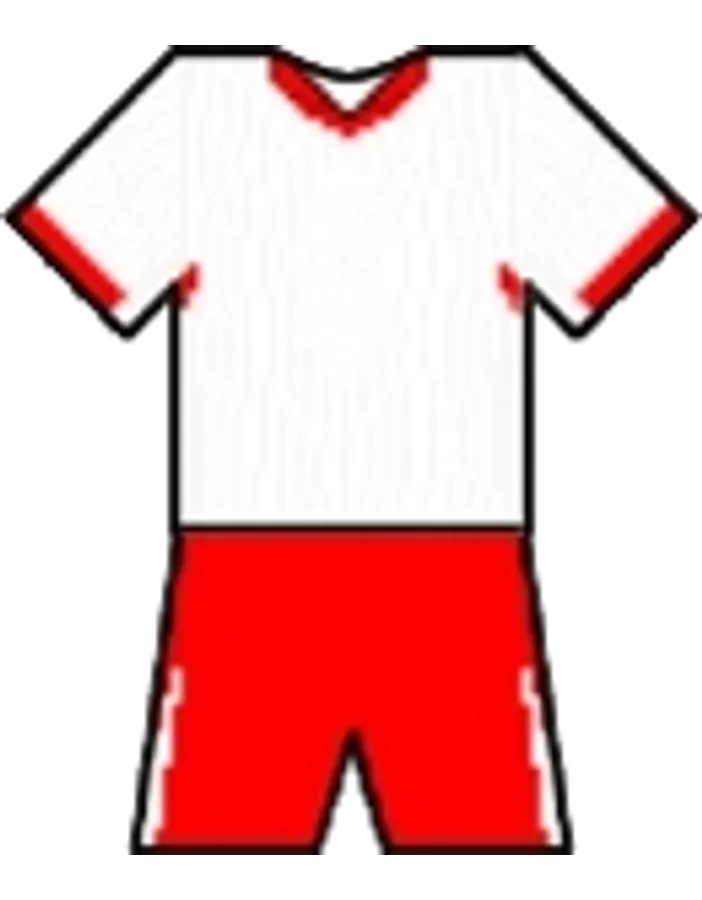
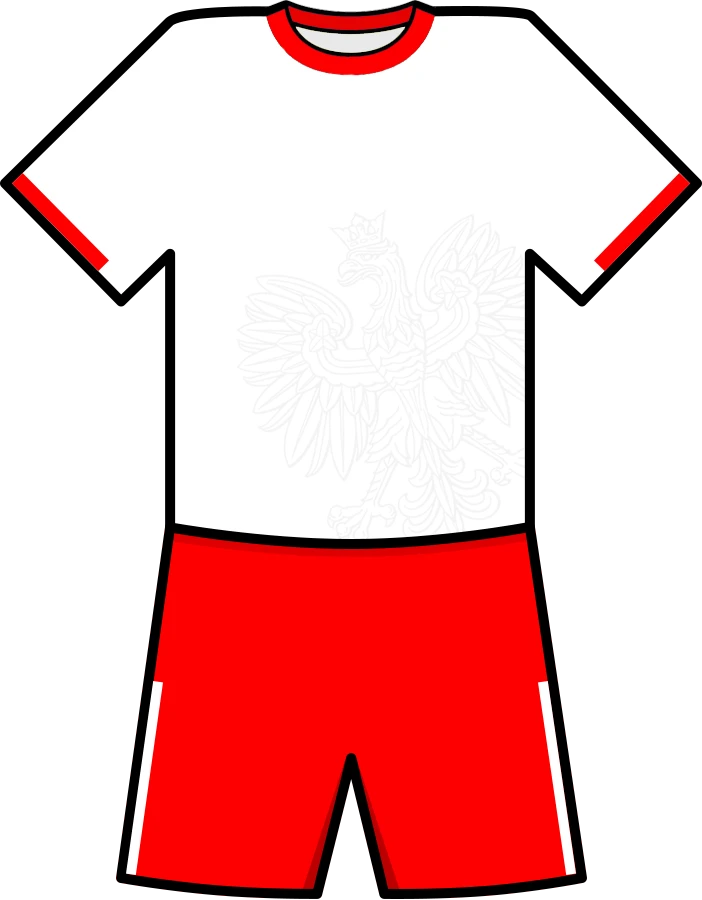
New menu background

Changed region(s): [[0.0, 0.0, 1.0, 1.0]]

diff --git a/src/tests/project.test.ts b/src/tests/project.test.ts
@@ -34,12 +34,15 @@ describe('project scaffold', () => {
     expect(existsSync(join(process.cwd(), 'public', 'menu', 'README.md'))).toBe(true);
     expect(existsSync(join(process.cwd(), 'public', 'menu', 'menu-logo1.png'))).toBe(true);
     expect(existsSync(join(process.cwd(), 'public', 'menu', 'menu-logo2.png'))).toBe(true);
+    expect(existsSync(join(process.cwd(), 'public', 'menu', 'menu-2-bg.webp'))).toBe(true);
     expect(MENU_ASSETS.logoOn).toBe('menu-logo-on');
     expect(MENU_ASSETS.logoOff).toBe('menu-logo-off');
+    expect(MENU_ASSETS.teamSelectBackground).toBe('team-select-bg');
     expect(MENU_ASSETS.resultDrawBackground).toBe('result-draw-bg');
     expect(MENU_ASSETS.resultWinBackground).toBe('result-win-bg');
     expect(MENU_ASSET_PATHS.logoOn).toBe('menu/menu-logo1.png');
     expect(MENU_ASSET_PATHS.logoOff).toBe('menu/menu-logo2.png');
+    expect(MENU_ASSET_PATHS.teamSelectBackground).toBe('menu/menu-2-bg.webp');
     expect(MENU_ASSET_PATHS.resultDrawBackground).toBe('menu/remis-bg.webp');
     expect(MENU_ASSET_PATHS.resultWinBackground).toBe('menu/gamestat-bg.webp');
     expect(menuSceneSource).toContain('createBackground');
@@ -50,6 +53,7 @@ describe('project scaffold', () => {
     expect(menuSceneSource).toContain('createFooter');
     expect(menuSceneSource).toContain('MENU_LAYOUT');
     expect(bootSceneSource).toContain('MENU_ASSETS.background');
+    expect(bootSceneSource).toContain('MENU_ASSETS.teamSelectBackground');
     expect(bootSceneSource).toContain('MENU_ASSETS.logoOn');
     expect(bootSceneSource).toContain('MENU_ASSETS.logoOff');
     expect(configSource).not.toContain('menu-logo.png');
@@ -110,10 +114,12 @@ describe('project scaffold', () => {
     expect(menuSceneSource).toContain('`${GAME_TITLE} | v${GAME_VERSION}`');
     expect(menuSceneSource).toContain('This is an unofficial football card game.');
     expect(menuSceneSource).toContain('RULES_CONTENT');
-    expect(menuSceneSource).toContain("import { SCORE_VIEW_BACKGROUND_COLOR } from '../ui/ScoreView'");
+    expect(menuSceneSource).toContain('const ABOUT_MODAL_BACKGROUND_COLOR = 0x000000');
+    expect(menuSceneSource).toContain('const ABOUT_MODAL_BACKGROUND_ALPHA = 0.82');
     expect(menuSceneSource).toContain(
-      'this.add.rectangle(0, 0, ABOUT_MODAL.width, ABOUT_MODAL.height, SCORE_VIEW_BACKGROUND_COLOR, 0.98)'
+      'ABOUT_MODAL.width,\n      ABOUT_MODAL.height,\n      ABOUT_MODAL_BACKGROUND_COLOR,\n      ABOUT_MODAL_BACKGROUND_ALPHA'
     );
+    expect(menuSceneSource).not.toContain('background.setStrokeStyle(2, 0x9dd2a7)');
     expect(menuSceneSource).toContain('openRulesModal');
     expect(menuSceneSource).toContain("return 'EN'");
     expect(menuSceneSource).toContain("return 'PL'");

diff --git a/src/scenes/GameScene.ts b/src/scenes/GameScene.ts
@@ -32,7 +32,7 @@ import { createCardPlayerProfile, createGoalkeeperCardProfile, type CardPlayerPr
 import { CardView } from '../ui/CardView';
 import { DeckView } from '../ui/DeckView';
 import { FieldView, getFieldCardPosition } from '../ui/FieldView';
-import { SCORE_VIEW_BACKGROUND_COLOR, SCORE_VIEW_HEIGHT, SCORE_VIEW_WIDTH, ScoreView } from '../ui/ScoreView';
+import { SCORE_VIEW_HEIGHT, SCORE_VIEW_WIDTH, ScoreView } from '../ui/ScoreView';
 import { TEAM_STATS_VIEW_HEIGHT, TeamStatsView } from '../ui/TeamStatsView';
 import { ABOUT_CONTENT, ABOUT_LANGUAGES, RULES_CONTENT, type AboutLanguage, type InfoModalKind } from './MenuScene';
 import type { TeamSelectionData } from './TeamSelectScene';
@@ -67,6 +67,8 @@ const INFO_MODAL = {
   width: 960,
   height: 600
 } as const;
+const INFO_MODAL_BACKGROUND_COLOR = 0x000000;
+const INFO_MODAL_BACKGROUND_ALPHA = 0.82;
 const INFO_VIEWPORT = {
   x: -390,
   y: -150,
@@ -576,8 +578,14 @@ export class GameScene extends Phaser.Scene {
     overlay.setInteractive();
 
     const panel = this.add.container(centerX, centerY);
-    const background = this.add.rectangle(0, 0, INFO_MODAL.width, INFO_MODAL.height, SCORE_VIEW_BACKGROUND_COLOR, 0.98);
-    background.setStrokeStyle(2, 0x9dd2a7);
+    const background = this.add.rectangle(
+      0,
+      0,
+      INFO_MODAL.width,
+      INFO_MODAL.height,
+      INFO_MODAL_BACKGROUND_COLOR,
+      INFO_MODAL_BACKGROUND_ALPHA
+    );
 
     const backButton = this.createMatchInfoBackButton();
     const languageSelector = this.createMatchInfoLanguageSelector(336, -258);

diff --git a/src/scenes/MenuScene.ts b/src/scenes/MenuScene.ts
@@ -2,7 +2,6 @@ import Phaser from 'phaser';
 import { GAME_AUTHOR, GAME_AUTHOR_URL, GAME_TITLE, GAME_VERSION, MENU_ASSETS, SCENE_HEIGHT, SCENE_WIDTH } from '../config';
 import { deleteStoredTournament, hasActiveTournamentSave, loadActiveTournament } from '../tournament';
 import { Button } from '../ui/Button';
-import { SCORE_VIEW_BACKGROUND_COLOR } from '../ui/ScoreView';
 
 const MENU_LAYOUT = {
   centerX: SCENE_WIDTH / 2,
@@ -28,6 +27,8 @@ const ABOUT_MODAL = {
   width: 960,
   height: 600
 } as const;
+const ABOUT_MODAL_BACKGROUND_COLOR = 0x000000;
+const ABOUT_MODAL_BACKGROUND_ALPHA = 0.82;
 
 const ABOUT_VIEWPORT = {
   x: -390,
@@ -750,8 +751,14 @@ export class MenuScene extends Phaser.Scene {
     overlay.setInteractive();
 
     const panel = this.add.container(MENU_LAYOUT.centerX, MENU_LAYOUT.centerY);
-    const background = this.add.rectangle(0, 0, ABOUT_MODAL.width, ABOUT_MODAL.height, SCORE_VIEW_BACKGROUND_COLOR, 0.98);
-    background.setStrokeStyle(2, 0x9dd2a7);
+    const background = this.add.rectangle(
+      0,
+      0,
+      ABOUT_MODAL.width,
+      ABOUT_MODAL.height,
+      ABOUT_MODAL_BACKGROUND_COLOR,
+      ABOUT_MODAL_BACKGROUND_ALPHA
+    );
 
     const backButton = this.createInfoBackButton();
     const languageSelector = this.createAboutLanguageSelector(336, -258);

diff --git a/src/tests/gameScene.test.ts b/src/tests/gameScene.test.ts
@@ -148,13 +148,16 @@ describe('GameScene visual layout contracts', () => {
     expect(scoreSource).not.toContain('scene.add.rectangle(0, 0, 620, 78');
   });
 
-  it('uses the scoreboard background color for in-game info panels', () => {
+  it('uses a transparent black background without borders for in-game info panels', () => {
     const source = readSource('src/scenes/GameScene.ts');
 
-    expect(source).toContain("import { SCORE_VIEW_BACKGROUND_COLOR, SCORE_VIEW_HEIGHT, SCORE_VIEW_WIDTH, ScoreView } from '../ui/ScoreView'");
+    expect(source).toContain("import { SCORE_VIEW_HEIGHT, SCORE_VIEW_WIDTH, ScoreView } from '../ui/ScoreView'");
+    expect(source).toContain('const INFO_MODAL_BACKGROUND_COLOR = 0x000000');
+    expect(source).toContain('const INFO_MODAL_BACKGROUND_ALPHA = 0.82');
     expect(source).toContain(
-      'this.add.rectangle(0, 0, INFO_MODAL.width, INFO_MODAL.height, SCORE_VIEW_BACKGROUND_COLOR, 0.98)'
+      'INFO_MODAL.width,\n      INFO_MODAL.height,\n      INFO_MODAL_BACKGROUND_COLOR,\n      INFO_MODAL_BACKGROUND_ALPHA'
     );
+    expect(source).not.toContain('background.setStrokeStyle(2, 0x9dd2a7)');
     expect(source).toContain('const overlay = this.add.rectangle(centerX, centerY, SCENE_WIDTH, SCENE_HEIGHT, 0x06140f, 0.72)');
   });
 });

diff --git a/src/tests/teamSelect.test.ts b/src/tests/teamSelect.test.ts
@@ -118,12 +118,16 @@ describe('quick match team selection AI controls', () => {
     expect(source).toContain('FALLBACK_TEAM_KIT_ASSET.assetKey');
   });
 
-  it('draws a football field background without global scale or input changes', () => {
+  it('uses the team selection menu background with a football field fallback', () => {
     const source = readTeamSelectSource();
     const backgroundSource = readFileSync(join(process.cwd(), 'src', 'ui', 'teamFieldBackground.ts'), 'utf8');
 
+    expect(source).toContain("import { MENU_ASSETS, SCENE_HEIGHT, SCENE_WIDTH } from '../config'");
     expect(source).toContain("import { createTeamFieldBackground } from '../ui/teamFieldBackground'");
     expect(source).toContain('private createTeamSelectFieldBackground');
+    expect(source).toContain('this.textures.exists(MENU_ASSETS.teamSelectBackground)');
+    expect(source).toContain('this.add.image(SCENE_WIDTH / 2, SCENE_HEIGHT / 2, MENU_ASSETS.teamSelectBackground)');
+    expect(source).toContain('background.setDisplaySize(SCENE_WIDTH, SCENE_HEIGHT)');
     expect(source).toContain('createTeamFieldBackground(this)');
     expect(backgroundSource).toContain('const stripeCount = 14');
     expect(backgroundSource).toContain('graphics.lineBetween(SCENE_WIDTH / 2');

diff --git a/src/scenes/TeamSelectScene.ts b/src/scenes/TeamSelectScene.ts
@@ -1,7 +1,7 @@
 import Phaser from 'phaser';
 import { resolveTeamCoverLoadResult } from '../assets/teamCover';
 import type { PlayerControllerType } from '../ai';
-import { SCENE_HEIGHT, SCENE_WIDTH } from '../config';
+import { MENU_ASSETS, SCENE_HEIGHT, SCENE_WIDTH } from '../config';
 import { FALLBACK_TEAM_KIT_ASSET, getTeamKitAssetKey } from '../data/teamKits';
 import { getFlagAssetKey, NATIONAL_TEAMS, type NationalTeam } from '../data/nationalTeams';
 import type { TournamentMatchResult } from '../tournament';
@@ -491,6 +491,13 @@ export class TeamSelectScene extends Phaser.Scene {
   }
 
   private createTeamSelectFieldBackground(): void {
+    if (this.textures.exists(MENU_ASSETS.teamSelectBackground)) {
+      const background = this.add.image(SCENE_WIDTH / 2, SCENE_HEIGHT / 2, MENU_ASSETS.teamSelectBackground);
+      background.setDisplaySize(SCENE_WIDTH, SCENE_HEIGHT);
+      background.setDepth(-20);
+      return;
+    }
+
     createTeamFieldBackground(this);
   }
 

diff --git a/src/config.ts b/src/config.ts
@@ -7,6 +7,7 @@ export const SCENE_HEIGHT = 720;
 
 export const MENU_ASSETS = {
   background: 'menu-bg',
+  teamSelectBackground: 'team-select-bg',
   resultDrawBackground: 'result-draw-bg',
   resultWinBackground: 'result-win-bg',
   logoOn: 'menu-logo-on',
@@ -16,6 +17,7 @@ export const MENU_ASSETS = {
 
 export const MENU_ASSET_PATHS = {
   background: 'menu/menu-bg.webp',
+  teamSelectBackground: 'menu/menu-2-bg.webp',
   resultDrawBackground: 'menu/remis-bg.webp',
   resultWinBackground: 'menu/gamestat-bg.webp',
   logoOn: 'menu/menu-logo1.png',

diff --git a/src/tests/bootScene.test.ts b/src/tests/bootScene.test.ts
@@ -115,8 +115,10 @@ describe('BootScene kit asset loading', () => {
 
     expect(source).toContain('logoOn');
     expect(source).toContain('logoOff');
+    expect(source).toContain('teamSelectBackground');
     expect(source).toContain('resultDrawBackground');
     expect(source).toContain('resultWinBackground');
+    expect(source).toContain('menu/menu-2-bg.webp');
     expect(source).toContain('menu/remis-bg.webp');
     expect(source).toContain('menu/gamestat-bg.webp');
     expect(source).toContain('menu/menu-logo1.png');

diff --git a/src/scenes/BootScene.ts b/src/scenes/BootScene.ts
@@ -29,6 +29,7 @@ export class BootScene extends Phaser.Scene {
 
   public preload(): void {
     this.load.image(MENU_ASSETS.background, MENU_ASSET_PATHS.background);
+    this.load.image(MENU_ASSETS.teamSelectBackground, MENU_ASSET_PATHS.teamSelectBackground);
     this.load.image(MENU_ASSETS.resultDrawBackground, MENU_ASSET_PATHS.resultDrawBackground);
     this.load.image(MENU_ASSETS.resultWinBackground, MENU_ASSET_PATHS.resultWinBackground);
     this.load.image(MENU_ASSETS.logoOn, MENU_ASSET_PATHS.logoOn);

diff --git a/PROJECT_SPEC_FOR_CHATGPT.md b/PROJECT_SPEC_FOR_CHATGPT.md
@@ -68,7 +68,7 @@ src/scenes/
 - `TeamSelectScene.ts` - выбор сборных для быстрого матча или standalone-пенальти. В быстром матче и standalone-пенальти у каждой выбранной команды есть AI-checkbox; по умолчанию команды HUMAN. Все 65 команд отображаются на одной странице компактной сеткой с 8 колонками без пагинации.
 - Team selection layout uses `createTeamScreenLayout()` from `src/ui/teamScreenLayout.ts`: selected Team 1 card and Menu button align to `teamGridRect.x`, selected Team 2 card and Start/Start penalties align to the right edge of `teamGridRect`, and `VS` remains centered between selected cards.
 - Team selection selected cards show a 3-card face-down cover fan from `resolveTeamCoverLoadResult()` instead of the team flag. Between each selected card and `VS`, the screen shows a small kit preview using `getTeamKitAssetKey()` with `kit-none` fallback.
-- Team selection background is drawn with Phaser Graphics as a muted striped football field with field markings; no main.ts, index.html, global CSS scale/input, GameEngine, AI, Penalty AI, TournamentEngine, or asset registration changes are part of this screen layout contract.
+- Team selection background uses the preloaded `public/menu/menu-2-bg.webp` asset, stretched to the scene size, with the muted striped Phaser Graphics football field kept only as a missing-texture fallback. No main.ts, index.html, global CSS scale/input, GameEngine, AI, Penalty AI, or TournamentEngine changes are part of this screen layout contract.
 - `SquadSelectScene.ts` и `SquadEditorScene.ts` - просмотр состава. `Teams` показывает справа цвета выбранной сборной и две preview-карты: лицевую карту с экипировкой и rank `N`, а ниже одиночную face-down карту с рубашкой выбранной команды.
 - `GameScene.ts` - основной матч.
 - `ResultScene.ts` - финальный экран матча.

diff --git a/public/menu/README.md b/public/menu/README.md
@@ -15,6 +15,12 @@ Main menu background. Preferred size: `1600 x 720`.
 Use this for a night stadium, stylized pitch, or tournament atmosphere. Do not include embedded buttons, UI text, or the game logo in this image.
 
 ```text
+menu-2-bg.webp
+```
+
+Team selection menu background. Preferred size: `1600 x 720`.
+
+```text
 remis-bg.webp
 ```
 
